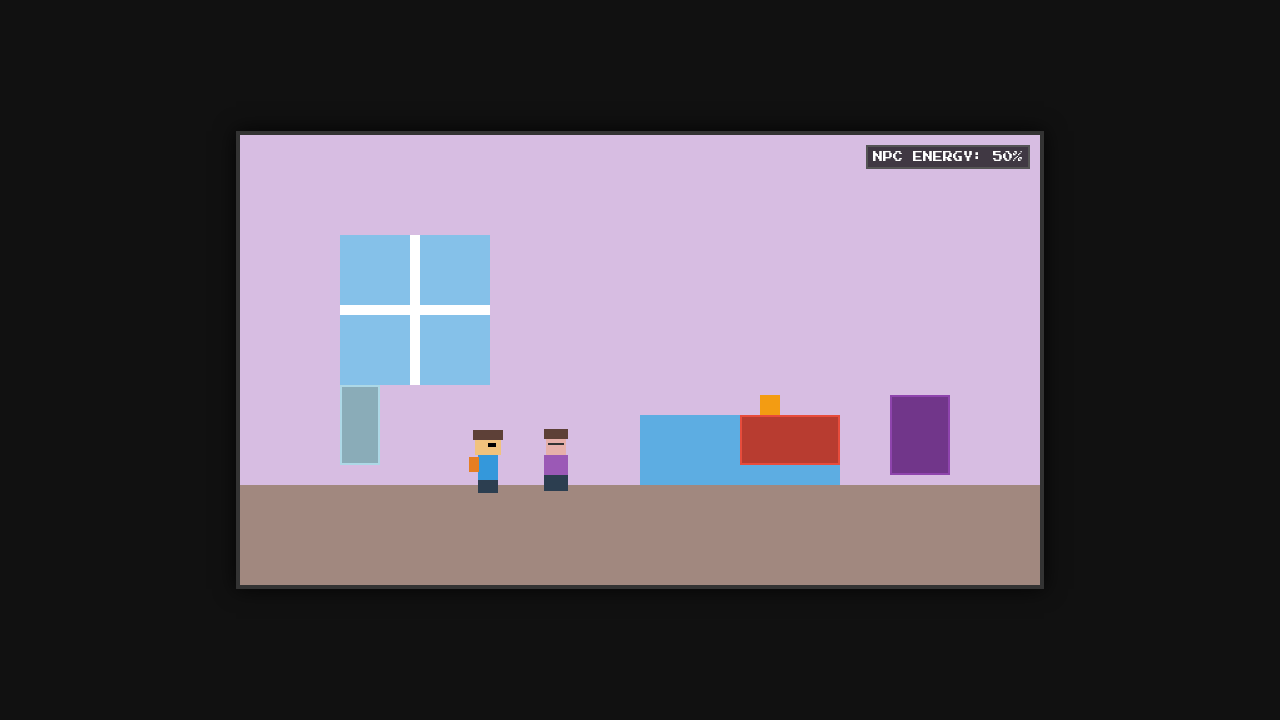
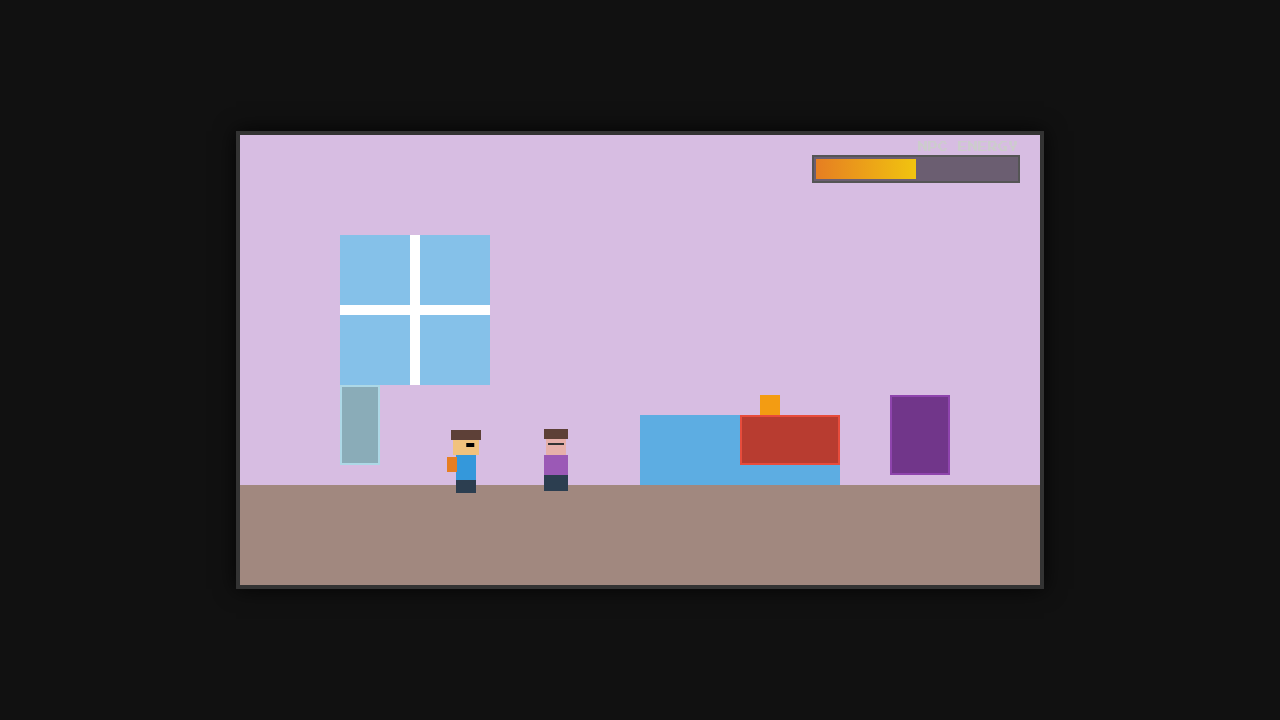
Polish game: visuals, physics, and code organization
- Refactored magic numbers and colors into a global `CONFIG` object.
- Implemented smooth movement physics (acceleration/friction) for the player.
- Added smooth camera following (lerp).
- Added a particle system for footstep dust.
- Added moving clouds to the outside scene.
- Improved UI styling for the dialogue box and energy meter.

Changed region(s): [[0.625, 0.1833, 0.8125, 0.275], [0.3438, 0.5806, 0.4062, 0.7028]]

diff --git a/index.html b/index.html
@@ -48,9 +48,36 @@
             justify-content: space-between;
         }
 
+        #energy-bar-container {
+            position: absolute;
+            top: 20px;
+            right: 20px;
+            width: 200px;
+            height: 20px;
+            background: rgba(0,0,0,0.5);
+            border: 2px solid #555;
+            padding: 2px;
+        }
+
+        #energy-bar-fill {
+            height: 100%;
+            background: linear-gradient(90deg, #e67e22, #f1c40f);
+            width: 50%;
+            transition: width 0.5s;
+        }
+
+        #energy-label {
+            position: absolute;
+            top: -15px;
+            right: 0;
+            font-size: 10px;
+            color: #ccc;
+        }
+
         #dialogue-box {
-            background: #000;
-            border-top: 4px solid white;
+            background: rgba(0, 0, 0, 0.9);
+            border-top: 4px solid #fff;
+            box-shadow: 0 -4px 10px rgba(0,0,0,0.5);
             padding: 20px;
             min-height: 160px;
             display: none; 
@@ -59,6 +86,8 @@
             bottom: 0;
             width: 100%;
             box-sizing: border-box;
+            border-top-left-radius: 10px;
+            border-top-right-radius: 10px;
         }
 
         .char-name {
@@ -139,8 +168,9 @@
         <div id="fade-overlay"></div>
         
         <div id="ui-layer">
-            <div id="energy-meter" style="position: absolute; top: 10px; right: 10px; background: rgba(0,0,0,0.7); padding: 5px; border: 2px solid #555; font-size: 10px; color: #fff;">
-                NPC ENERGY: <span id="energy-val">50</span>%
+            <div id="energy-bar-container">
+                <div id="energy-label">NPC ENERGY</div>
+                <div id="energy-bar-fill"></div>
             </div>
             <div id="interaction-prompt">PRESS SPACE</div>
 
@@ -160,6 +190,33 @@
 const canvas = document.getElementById('gameCanvas');
 const ctx = canvas.getContext('2d');
 ctx.imageSmoothingEnabled = false; 
+
+// --- CONFIGURATION ---
+const CONFIG = {
+    COLORS: {
+        BG: '#111',
+        WHITE: '#fff',
+        BLACK: '#000',
+        UI_BORDER: '#555',
+        UI_HIGHLIGHT: '#f0e68c',
+        PLAYER_MAIN: '#3498db',
+        PLAYER_PANTS: '#2c3e50',
+        PLAYER_SKIN: '#f1c27d',
+        PLAYER_HAIR: '#5d4037',
+        MOM_MAIN: '#8e44ad',
+        MOM_CLOTHES: '#9b59b6',
+        KHRIS_MAIN: '#111',
+        HOME_BG_WALL: '#d7bde2',
+        HOME_BG_FLOOR: '#a1887f',
+        OUTSIDE_SKY: '#85c1e9',
+        OUTSIDE_GRASS: '#95a5a6'
+    },
+    PHYSICS: {
+        ACCELERATION: 0.5,
+        FRICTION: 0.8,
+        MAX_SPEED: 4
+    }
+};
 
 // --- SCENE MANAGEMENT ---
 const SCENES = {
@@ -197,8 +254,8 @@ function updateEnergy(amount) {
     if (GameState.npcEnergy > 100) GameState.npcEnergy = 100;
     if (GameState.npcEnergy < 0) GameState.npcEnergy = 0;
 
-    const uiEnergy = document.getElementById('energy-val');
-    if(uiEnergy) uiEnergy.innerText = GameState.npcEnergy;
+    const uiBar = document.getElementById('energy-bar-fill');
+    if(uiBar) uiBar.style.width = GameState.npcEnergy + "%";
 }
 
 // --- INPUT ---
@@ -224,6 +281,44 @@ window.addEventListener('keyup', (e) => {
 
 // --- CAMERA ---
 const camera = { x: 0, y: 0 };
+
+// --- PARTICLES ---
+class Particle {
+    constructor(x, y, color) {
+        this.x = x;
+        this.y = y;
+        this.color = color;
+        this.size = Math.random() * 3 + 2;
+        this.vx = (Math.random() - 0.5) * 1;
+        this.vy = -Math.random() * 1 - 0.5;
+        this.life = 1.0;
+    }
+    update() {
+        this.x += this.vx;
+        this.y += this.vy;
+        this.life -= 0.05;
+    }
+    draw(ctx, camX) {
+        ctx.fillStyle = this.color;
+        ctx.globalAlpha = this.life;
+        ctx.fillRect(this.x - camX, this.y, this.size, this.size);
+        ctx.globalAlpha = 1.0;
+    }
+}
+
+let particles = [];
+
+function spawnParticles(x, y, color, count = 1) {
+    for(let i=0; i<count; i++) {
+        particles.push(new Particle(x, y, color));
+    }
+}
+
+// --- CLOUDS ---
+const clouds = [];
+for(let i=0; i<5; i++) {
+    clouds.push({ x: Math.random() * 800, y: Math.random() * 100, speed: Math.random() * 0.5 + 0.1 });
+}
 
 // --- SPRITE HELPERS ---
 function drawPixelRect(ctx, x, y, width, height, color) {
@@ -271,8 +366,11 @@ class Entity {
 
 class Timothy extends Entity {
     constructor(x, y) {
-        super(x, y, 30, 58, '#3498db'); 
-        this.speed = 3;
+        super(x, y, 30, 58, CONFIG.COLORS.PLAYER_MAIN);
+        this.speed = 0;
+        this.maxSpeed = CONFIG.PHYSICS.MAX_SPEED;
+        this.accel = CONFIG.PHYSICS.ACCELERATION;
+        this.friction = CONFIG.PHYSICS.FRICTION;
     }
 
     update() {
@@ -281,16 +379,31 @@ class Timothy extends Entity {
             return;
         }
 
-        this.isMoving = false;
+        // Acceleration
         if (keys.ArrowRight || keys.KeyD) {
-            this.x += this.speed;
+            this.speed += this.accel;
             this.direction = 1;
-            this.isMoving = true;
-        }
-        if (keys.ArrowLeft || keys.KeyA) {
-            this.x -= this.speed;
+        } else if (keys.ArrowLeft || keys.KeyA) {
+            this.speed -= this.accel;
             this.direction = -1;
-            this.isMoving = true;
+        } else {
+            // Friction
+            this.speed *= this.friction;
+        }
+
+        // Clamp Speed
+        if (this.speed > this.maxSpeed) this.speed = this.maxSpeed;
+        if (this.speed < -this.maxSpeed) this.speed = -this.maxSpeed;
+
+        // Apply
+        this.x += this.speed;
+
+        // Visual State
+        this.isMoving = Math.abs(this.speed) > 0.1;
+
+        // Particles
+        if (this.isMoving && frameCount % 10 === 0) {
+            spawnParticles(this.x + 15, this.y + 58, '#bdc3c7');
         }
         
         // Scene Bounds
@@ -300,8 +413,8 @@ class Timothy extends Entity {
         if (currentScene === SCENES.CLASSROOM) maxW = 800;
         if (currentScene === SCENES.CAFETERIA) maxW = 1200;
 
-        if (this.x < 0) this.x = 0;
-        if (this.x > maxW) this.x = maxW;
+        if (this.x < 0) { this.x = 0; this.speed = 0; }
+        if (this.x > maxW) { this.x = maxW; this.speed = 0; }
     }
 
     drawSprite(ctx, x, y) {
@@ -319,7 +432,7 @@ class Timothy extends Entity {
 
 class Khristopher extends Entity {
     constructor(x, y) {
-        super(x, y, 48, 85, '#111'); 
+        super(x, y, 48, 85, CONFIG.COLORS.KHRIS_MAIN);
     }
 
     update(targetX) {
@@ -386,11 +499,11 @@ class Tuesday extends Entity {
 
 class Mom extends Entity {
     constructor(x, y) {
-        super(x, y, 32, 56, '#8e44ad');
+        super(x, y, 32, 56, CONFIG.COLORS.MOM_MAIN);
     }
     drawSprite(ctx, x, y) {
         // Mom: Tired, messy bun, house clothes
-        drawPixelRect(ctx, x + 4, y + 20, 24, 20, '#9b59b6'); 
+        drawPixelRect(ctx, x + 4, y + 20, 24, 20, CONFIG.COLORS.MOM_CLOTHES);
         drawPixelRect(ctx, x + 4, y + 40, 24, 16, '#2c3e50'); 
         drawPixelRect(ctx, x + 6, y, 20, 20, '#e6b0aa'); 
         drawPixelRect(ctx, x + 4, y - 6, 24, 10, '#5d4037'); 
@@ -511,9 +624,9 @@ class Locker extends Entity {
 
 // --- SCENE ASSETS ---
 function drawHomeBackground(ctx) {
-    ctx.fillStyle = '#d7bde2'; 
+    ctx.fillStyle = CONFIG.COLORS.HOME_BG_WALL;
     ctx.fillRect(0, 0, 800, 350);
-    ctx.fillStyle = '#a1887f'; 
+    ctx.fillStyle = CONFIG.COLORS.HOME_BG_FLOOR;
     ctx.fillRect(0, 350, 800, 100);
     ctx.fillStyle = '#85c1e9';
     ctx.fillRect(100, 100, 150, 150);
@@ -525,12 +638,19 @@ function drawHomeBackground(ctx) {
 }
 
 function drawOutsideBackground(ctx) {
-    ctx.fillStyle = '#85c1e9';
+    ctx.fillStyle = CONFIG.COLORS.OUTSIDE_SKY;
     ctx.fillRect(0,0,800,500);
-    ctx.fillStyle = '#fff';
-    ctx.fillRect(100, 50, 80, 30);
-    ctx.fillRect(500, 80, 120, 40);
-    ctx.fillStyle = '#95a5a6';
+
+    // Clouds
+    ctx.fillStyle = 'rgba(255,255,255,0.8)';
+    clouds.forEach(cloud => {
+        cloud.x += cloud.speed;
+        if (cloud.x > 800) cloud.x = -100;
+        ctx.fillRect(cloud.x, cloud.y, 60, 20);
+        ctx.fillRect(cloud.x + 20, cloud.y - 10, 40, 20);
+    });
+
+    ctx.fillStyle = CONFIG.COLORS.OUTSIDE_GRASS;
     ctx.fillRect(0, 350, 800, 100);
     ctx.fillStyle = '#c0392b'; 
     ctx.fillRect(500, 150, 300, 200);
@@ -861,7 +981,9 @@ function update() {
         
         checkInteractions();
 
-        camera.x = player.x - 200;
+        // Smooth Camera (Lerp)
+        const targetCamX = player.x - 200;
+        camera.x += (targetCamX - camera.x) * 0.1;
         if (camera.x < 0) camera.x = 0;
     }
 }
@@ -954,6 +1076,12 @@ function checkInteractions() {
 function draw() {
     ctx.clearRect(0, 0, canvas.width, canvas.height);
 
+    // Update Particles
+    for (let i = particles.length - 1; i >= 0; i--) {
+        particles[i].update();
+        if (particles[i].life <= 0) particles.splice(i, 1);
+    }
+
     if (currentScene === SCENES.HOME) {
         drawHomeBackground(ctx);
         mirror.draw(ctx, 0);
@@ -991,6 +1119,9 @@ function draw() {
         ctx.fillStyle = '#abebc6'; ctx.fillRect(0,0,800,450); // Simple bg
         player.draw(ctx, 0);
     }
+
+    // Draw Particles on top
+    particles.forEach(p => p.draw(ctx, camera.x));
 }
 
 // --- DIALOGUE SYSTEM ---
